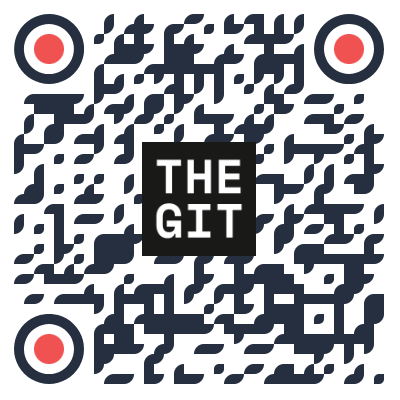
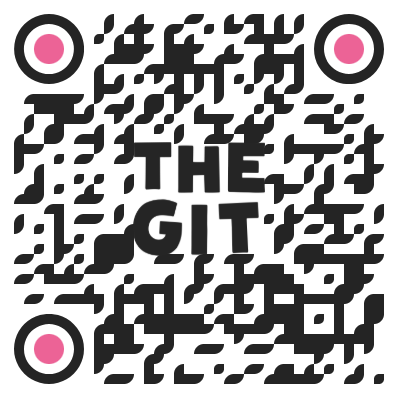
slideshow new qr codes

diff --git a/slideshow.html b/slideshow.html
@@ -85,9 +85,9 @@ noindex: true
                 <div class="d-flex justify-content-center">
                     <div class="card mt-1">
                         <div class="card-body qr-card-body">
-                        <h3 class="card-title text-center mb-0 qr-heading">Google Review</h3>
+                        <h3 class="card-title text-center mb-0 qr-heading">Review us</h3>
                         <div class="text-center">
-                            <img src="/img/qr-code-google-maps-review.png" class="card-img-top qr-image-review">
+                            <img src="/img/qr-code-review.png" class="card-img-top qr-image-review">
                         </div>
                         </div>
                     </div>
@@ -143,9 +143,9 @@ noindex: true
                 <div class="d-flex justify-content-center">
                     <div class="card mt-1">
                         <div class="card-body qr-card-body">
-                        <h3 class="card-title text-center mb-0 qr-heading">TripAdvisor Review</h3>
+                        <h3 class="card-title text-center mb-0 qr-heading">Merch</h3>
                         <div class="text-center">
-                            <img src="/img/qr-code-tripadvisor-review.png" class="card-img-top qr-image-review">
+                            <img src="/img/qr-code-merch.png" class="card-img-top qr-image-review">
                         </div>
                         </div>
                     </div>
